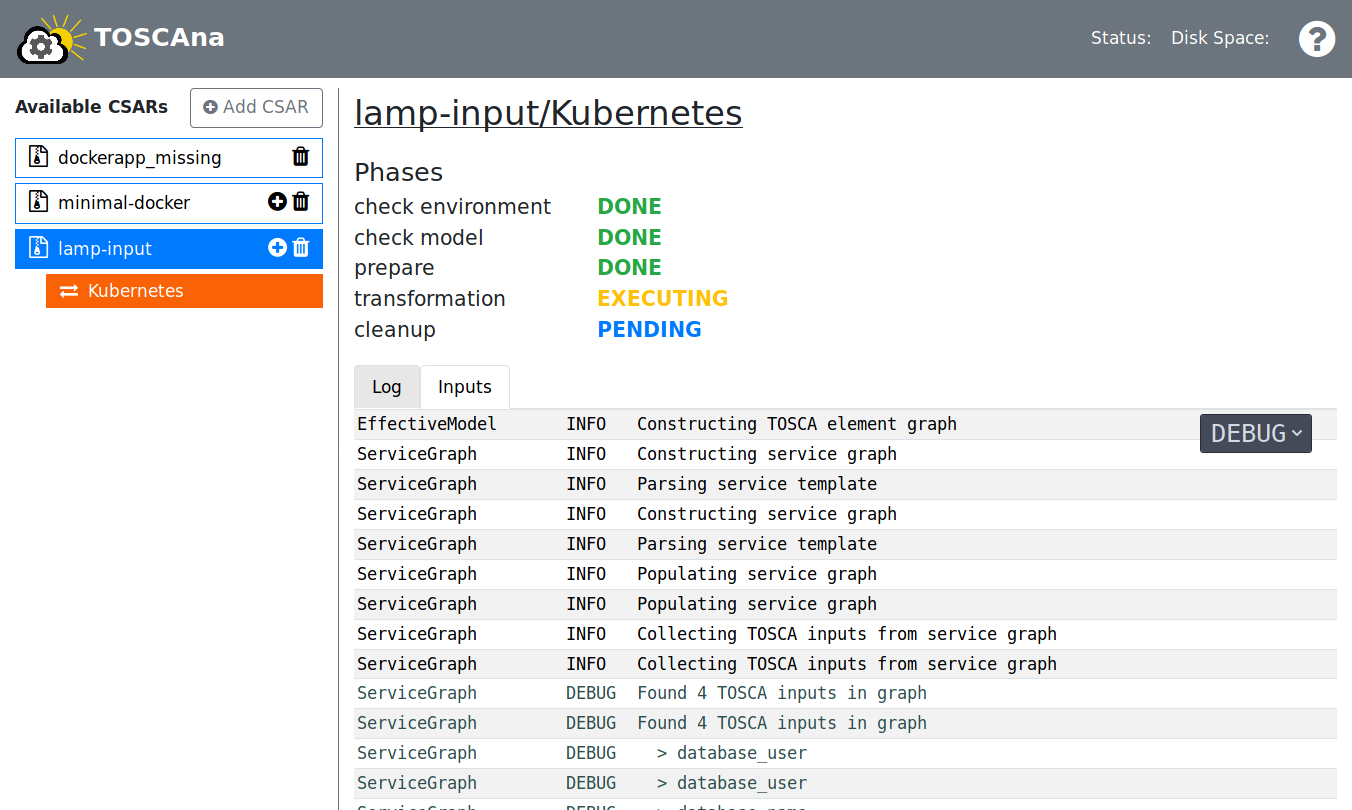
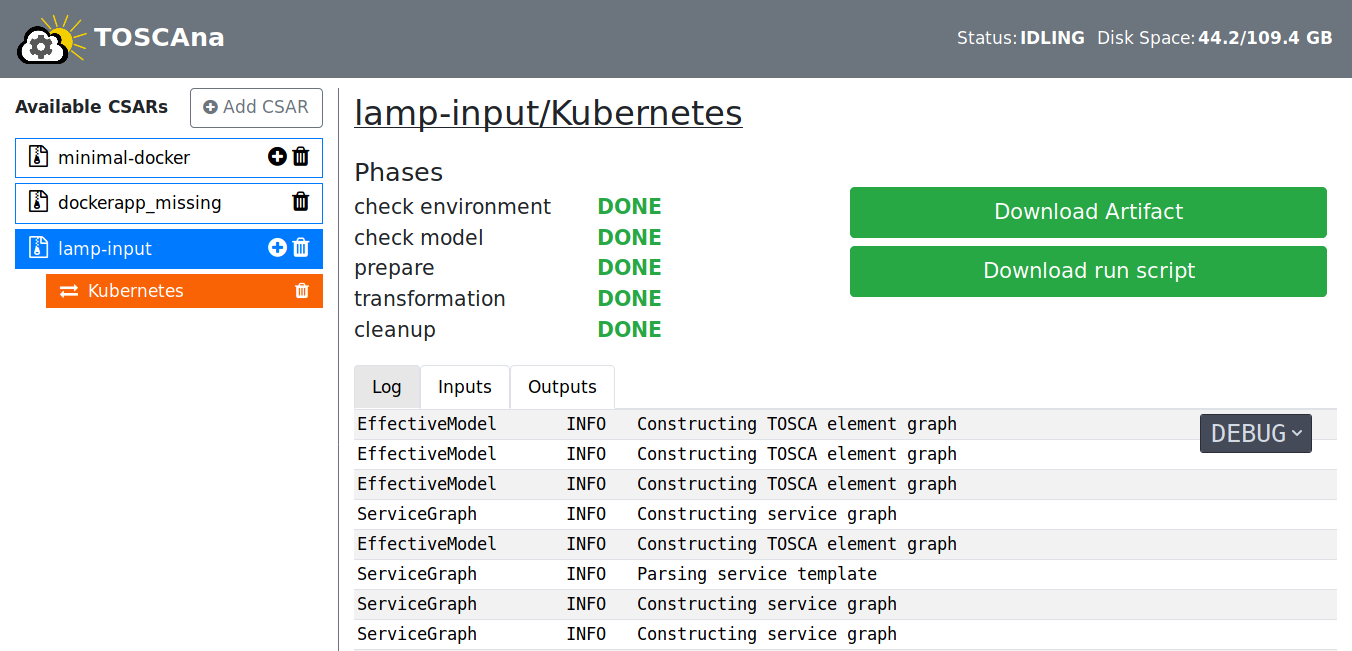
Add missing transformation view image

Changed region(s): [[0.0, 0.0307, 1.0, 1.0], [0.6213, 0.2765, 0.9941, 0.4608], [0.8698, 0.4916, 0.9941, 0.5837]]

diff --git a/docs/user/webapp/webapp.md b/docs/user/webapp/webapp.md
@@ -83,7 +83,7 @@ In the sidebar click on the CSAR and then on the transformation you want to look
 **Phases:** The web app shows each transformation phases state.  
 **Log:** If something went wrong you might want to check the server logs in the lower part of the web app. With the *log level selector* you can filter unwanted log levels.
 
-**TODO** ADD IMAGE 
+![](img/view_transformation.png)
 
 The transformation view looks very similar to the CSAR view but additionally there are two download buttons and the input and output tabs.
 
